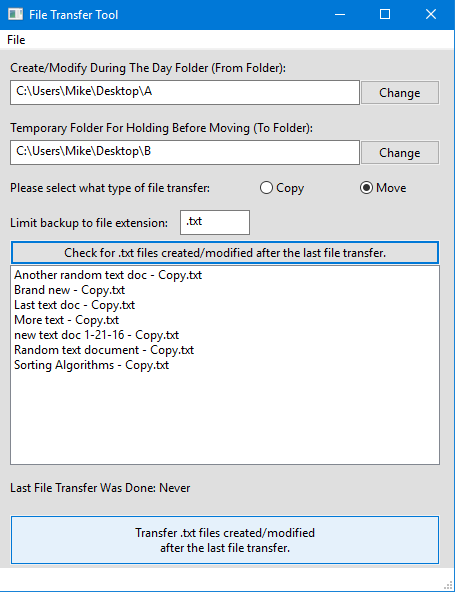
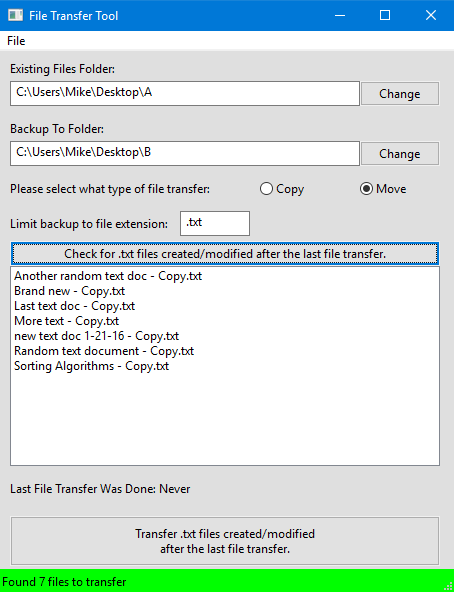
Commit
Minor rewording + better screenshot

Changed region(s): [[0.0, 0.0, 1.0, 1.0], [0.8326, 0.0, 0.8634, 0.0608], [0.9251, 0.0, 0.9559, 0.0304]]

diff --git a/One Click Backup.py b/One Click Backup.py
@@ -35,10 +35,10 @@ class windowClass(wx.Frame):
         wx.StaticText(panel, -1, "Limit backup to file extension: ", pos=(10, 165))
         self.fileExtension = wx.TextCtrl(panel, -1, "", pos=(180, 160), size=(70, 25))
         self.updateFileExtensionTextBox(self)
-        wx.StaticText(panel, -1, "Create/Modify During The Day Folder (From Folder):", pos=(10,10))
+        wx.StaticText(panel, -1, "Existing Files Folder:", pos=(10,10))
         self.sourceFolderText = wx.TextCtrl(panel, -1, sourceFolder, pos=(10,30), size=(350,25))
         self.sourceFolderText.SetBackgroundColour("white")
-        wx.StaticText(panel, -1, "Temporary Folder For Holding Before Moving (To Folder):", pos=(10,70))
+        wx.StaticText(panel, -1, "Backup To Folder:", pos=(10,70))
         self.destFolderText = wx.TextCtrl(panel, -1, destFolder, pos=(10,90), size=(350,25))
         self.destFolderText.SetBackgroundColour("white")
         self.myStatusBar = self.CreateStatusBar()
@@ -126,6 +126,7 @@ class windowClass(wx.Frame):
     
     def getFileList(self, e):
         self.updateLastXferTextBox(self)
+        filesToXfer = 0
         try:
             timeStarted = datetime.datetime.now() #GRABBING THIS IMMEDIATELY SO IF SOMEONE CREATES A FILE AT THE SAME TIME AS THIS PROGRAM IS CHECKING WHAT TO BACKUP, THEN THOSE FILES WILL HAVE A CREATE DATETIME AFTER THIS BACKUP DATETIME
             prevFileXfer = getLastFileXferDateTime()
@@ -140,16 +141,18 @@ class windowClass(wx.Frame):
                     if len(eachName) >= len(self.fileExtension.Value):
                         if str(eachName[len(eachName)-len(self.fileExtension.Value):len(eachName)]).lower() == str(self.fileExtension.Value).lower() and (prevFileXfer < datetime.datetime.fromtimestamp(os.path.getmtime(os.path.join(sourceFolder, eachName)))):
                             self.myStatusBar.SetBackgroundColour('#00FF00')
-                            self.myStatusBar.SetStatusText( "")
                             fileList.append(eachName)
                             self.fileListBox.Append(eachName)
+                            filesToXfer = filesToXfer + 1
+                self.myStatusBar.SetStatusText( "Found " +str(filesToXfer) + " files to transfer")
             else:
                 for eachName in fileNames:
                     if (prevFileXfer < datetime.datetime.fromtimestamp(os.path.getmtime(os.path.join(sourceFolder, eachName)))):
-                        self.myStatusBar.SetBackgroundColour('#FFFFFF')
-                        self.myStatusBar.SetStatusText( "")
+                        self.myStatusBar.SetBackgroundColour('#00FF00')
                         fileList.append(eachName)
                         self.fileListBox.Append(eachName)
+                        filesToXfer = filesToXfer + 1
+                self.myStatusBar.SetStatusText( "Found " +str(filesToXfer) + " files to transfer")
                 
             if fileList == []:
                 self.myStatusBar.SetBackgroundColour('#FF0000')
